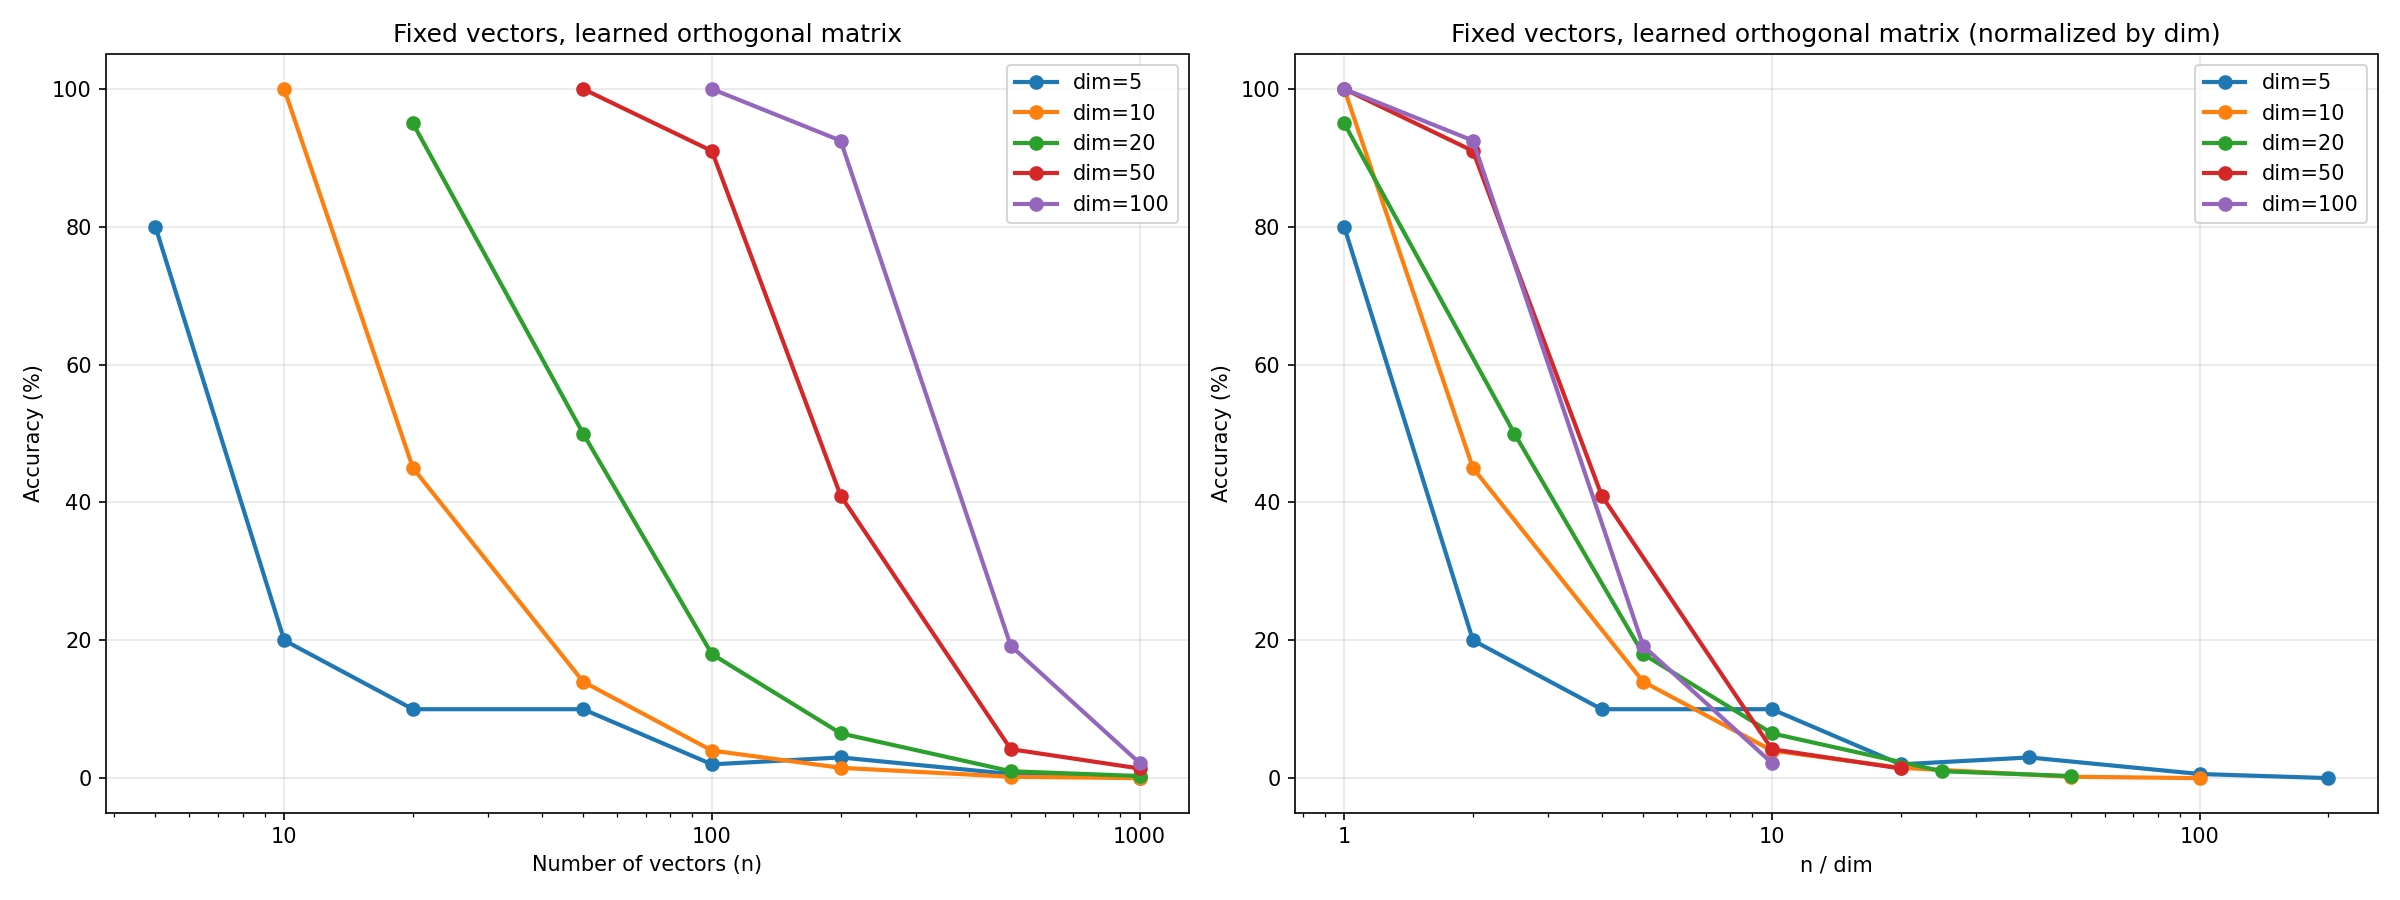
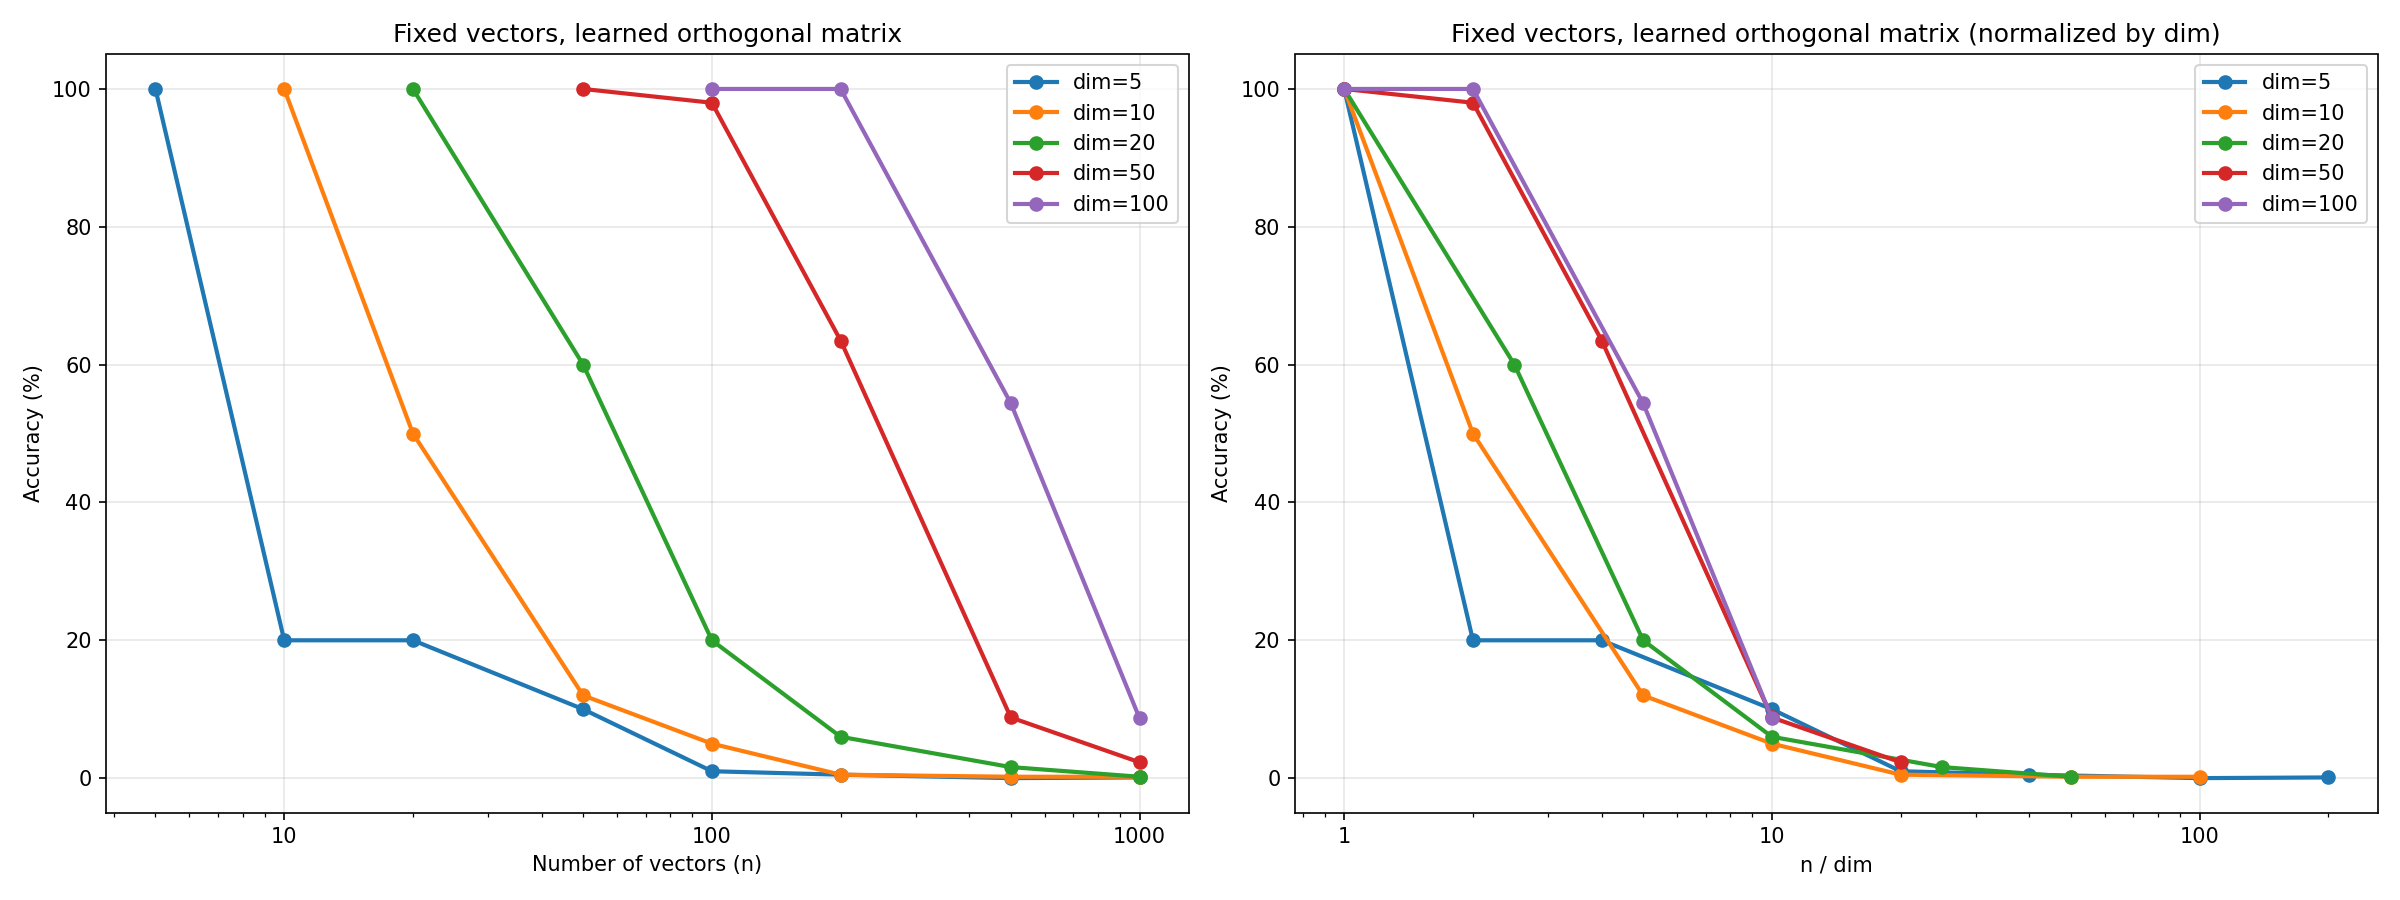
Increase capacity sweep to dim=1000/n=10000, lr=0.1, adaptive print frequency

diff --git a/permutation_rotation.py b/permutation_rotation.py
@@ -55,7 +55,8 @@ def train(dim, n, steps, lr=0.01, learn_vectors=False):
             vecs = vecs + lr * (ideal_input + ideal_output - 2 * vecs)
             vecs = vecs / vecs.norm(dim=1, keepdim=True)
 
-        if step % 500 == 0 or step == steps - 1:
+        print_every = max(500, steps // 10)
+        if step % print_every == 0 or step == steps - 1:
             correct = evaluate(M, vecs, perm)
             print(f"  Step {step:>5}: {correct}/{n} ({100*correct/n:.1f}%)")
 

diff --git a/capacity_fixed_vectors.py b/capacity_fixed_vectors.py
@@ -2,10 +2,10 @@ import torch
 import matplotlib.pyplot as plt
 from permutation_rotation import train, random_unit_vectors, random_ortho, newton_schulz, evaluate
 
-dims = [5, 10, 20, 50, 100]
-ns = [5, 10, 20, 50, 100, 200, 500, 1000]
-steps = 5000
-lr = 0.05
+dims = [5, 10, 20, 50, 100, 200, 500, 1000]
+ns = [5, 10, 20, 50, 100, 200, 500, 1000, 2000, 5000, 10000]
+steps = 10000
+lr = 0.1
 
 results = {}
 
